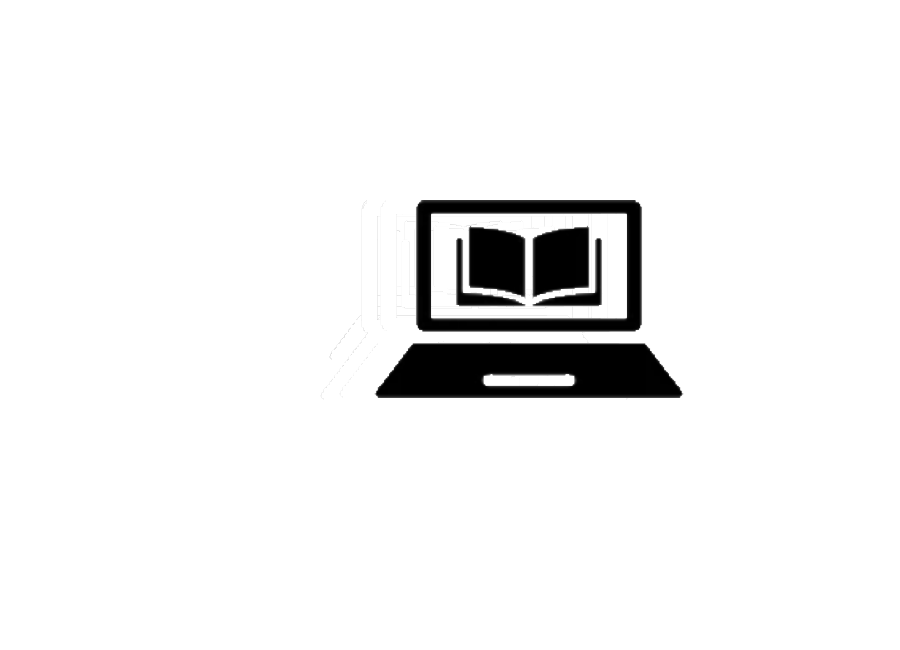
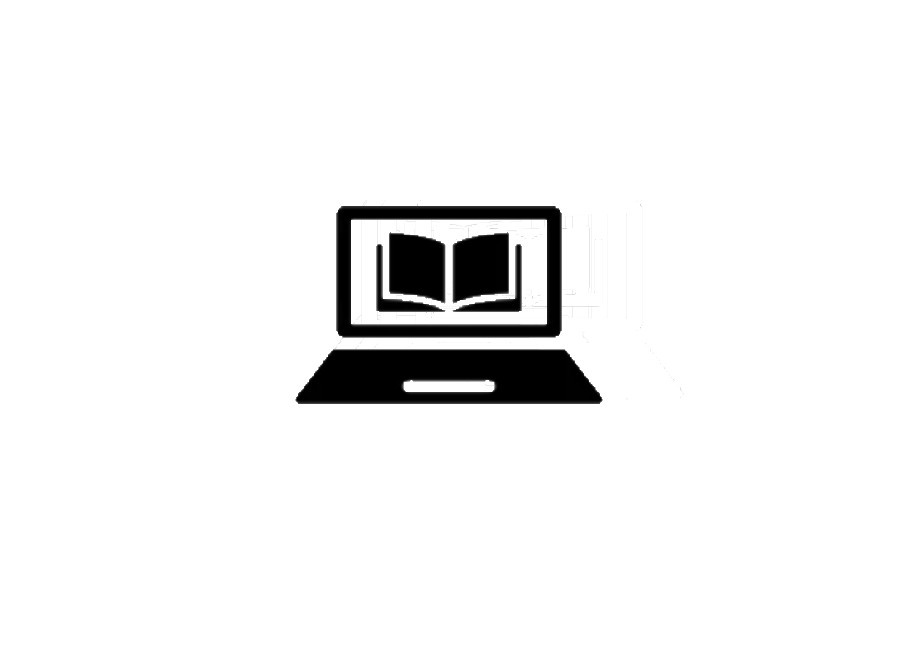
Alinged stuff to the center, fixed the booklet pic

Changed region(s): [[0.3111, 0.3077, 0.7778, 0.6462]]

diff --git a/css/stylesheet.css b/css/stylesheet.css
@@ -518,7 +518,10 @@ background-color: #2868c7;
 }
 
 .shop-item-image {
+  display: block;
     height: 250px;
+    margin-left: auto;
+    margin-right: auto;
 }
 
 .shop-item-details {
